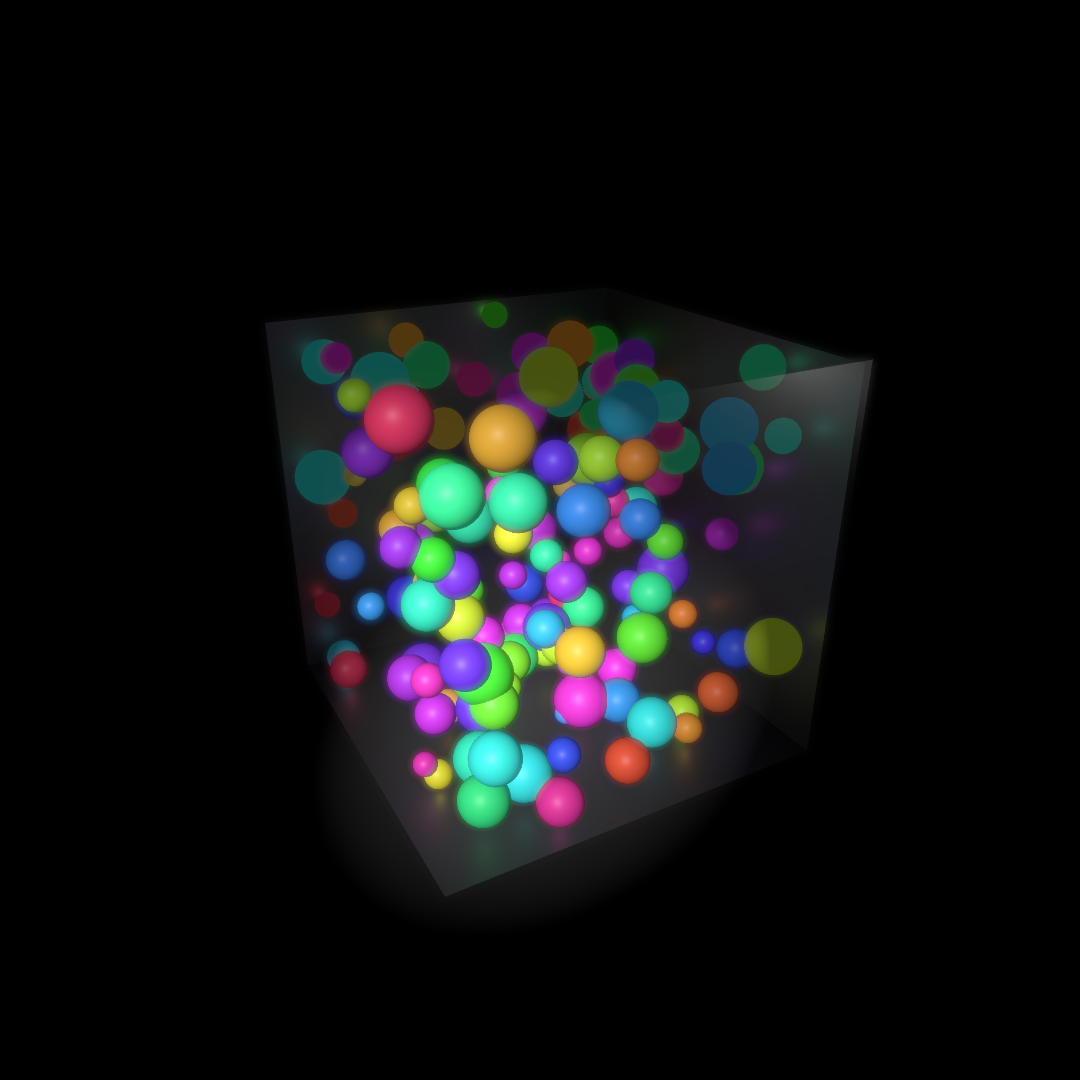
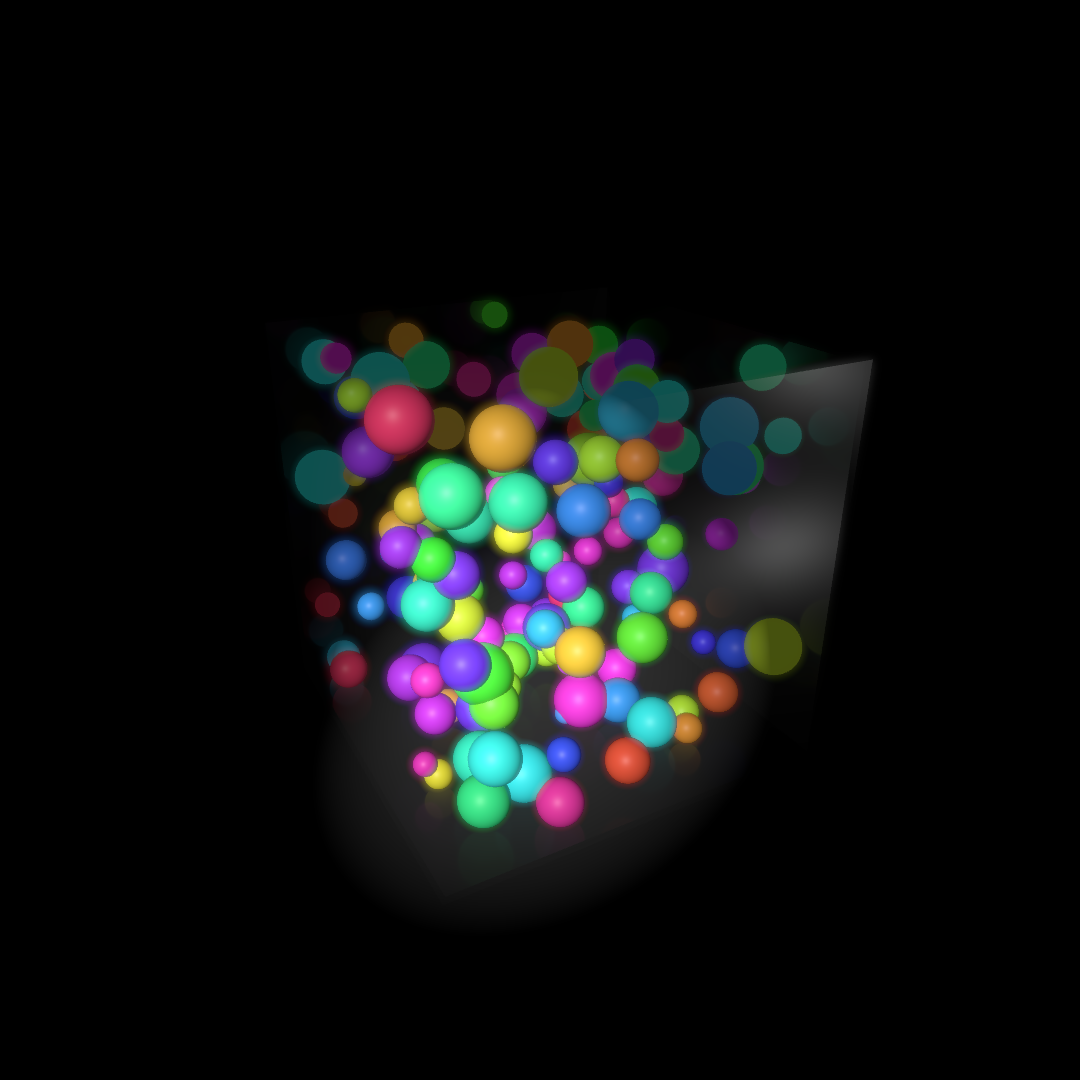
Add support for *ball* lights
These are basically point lights with radii. Fixes #45.

diff --git a/docs/canvas3d.md b/docs/canvas3d.md
@@ -374,6 +374,10 @@ value if the attribute is missing.
 : Specifies the location in space of the light, respecting any local
 transformation matrix.
 
+`radius=` *R*
+: Specifies the radius of a *ball* light. This defaults to zero (i.e, a
+*point*).
+
 `direction=` *X*`;`*Y*`;`*Z* | `focus=` *X*`;`*Y*`;`*Z*
 : Specifies the direction that this light shines, either as a direction vector
 or as an absolute position `focus`. `focus` can **only** be used if `position`
@@ -422,6 +426,13 @@ sunlight.
 that shines outwards in all directions from `position`. The light brightness
 will fall-off with distance according to `falloff`. Due to fall-off, it is
 common for the `color` values to be very large.
+
+**Ball**
+: A ball light is a point light with a non-zero `radius` attribute. Ball light
+have a different behaviour with respect to specular reflections. The more shiny
+a [material](#materials) is, the narrower the specular reflection of a point
+light will become - eventually vanishing to nothing. A ball light retains a
+specular reflection size matching the size of the ball.
 
 **Spot**
 : If both `position` *and* `direction` (or `focus`) are specified then this

diff --git a/README.md b/README.md
@@ -31,7 +31,8 @@ The engine that runs the language is capable of:
   - texture mapping, including with the output of other visual units (e.g., a
     drawing canvas or a video)
   - planar slicing and union, difference and intersection of solid models
-  - ambient, directional, point and spotlight sources (currently shadowless)
+  - ambient, directional, point/ball and spotlight sources (currently
+    shadowless)
   - Physically-based rendering material shading, emissive objects and
     transparency
   - multiple cameras with individual control over location, field-of-view, near
